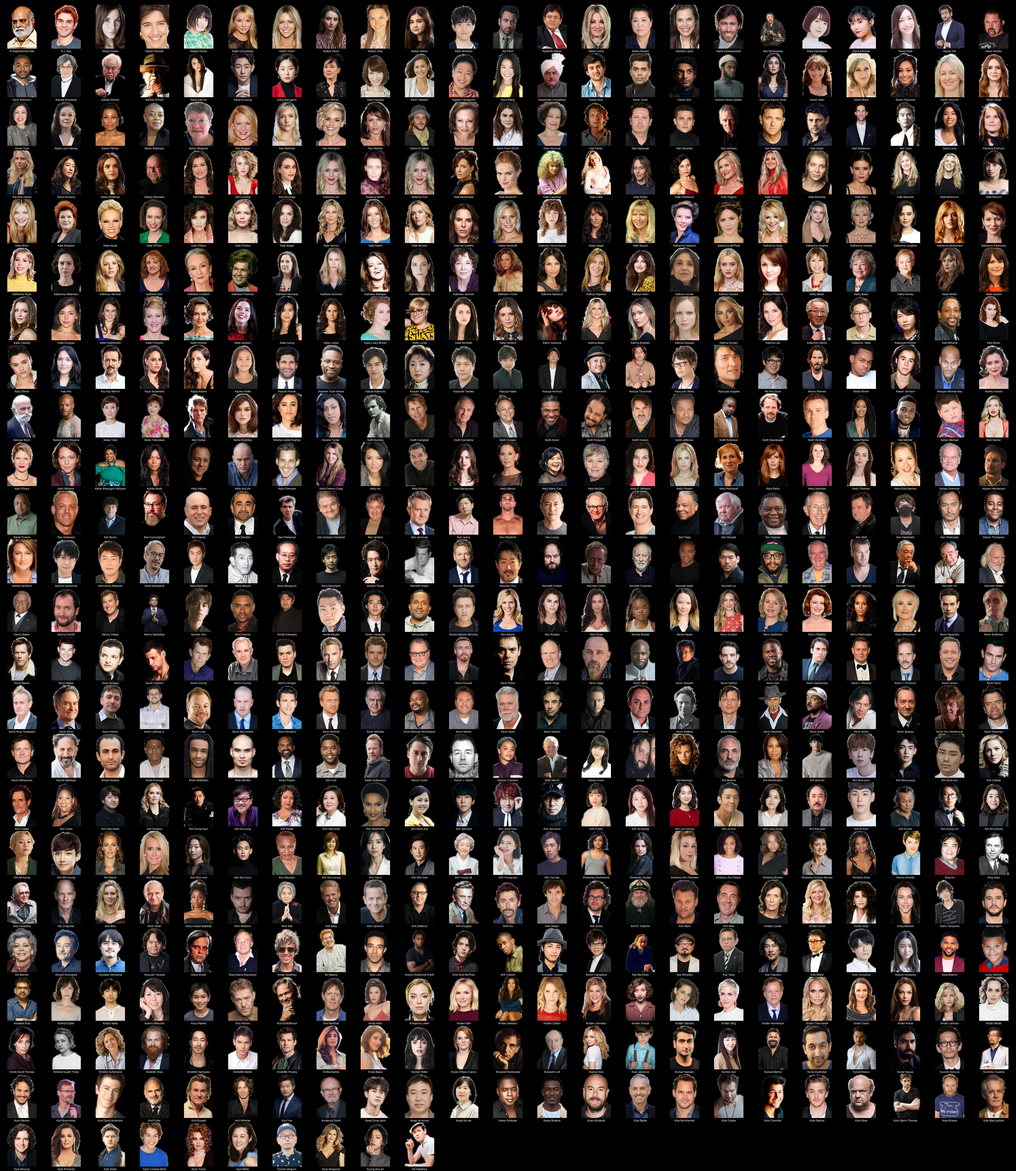
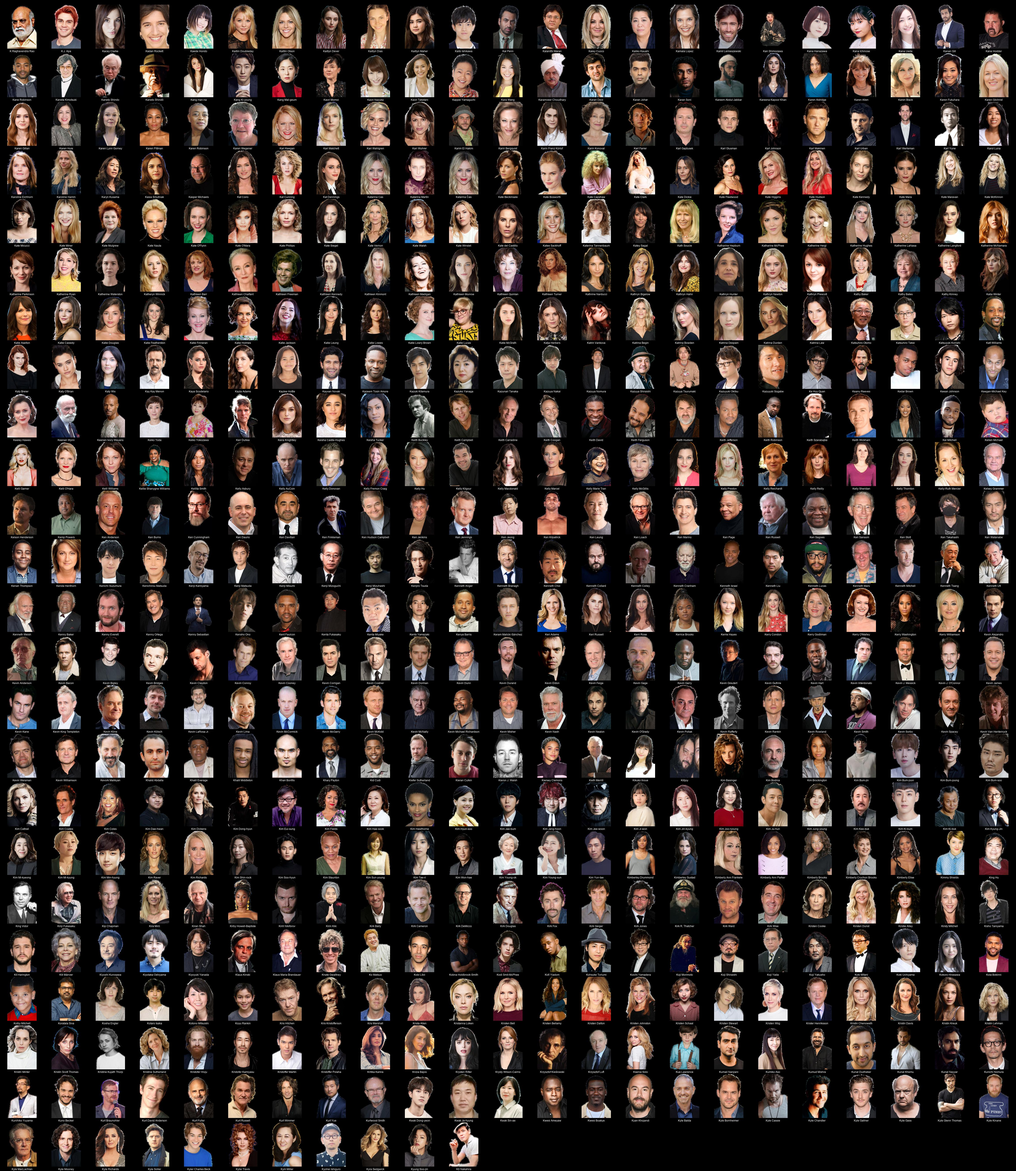
chore: sync posters & docs [transparent] — 2025-09-06 04:46

diff --git a/README.md b/README.md
@@ -1,4 +1,4 @@
-# Kometa People Images - Transparent (transparent) (11126 Images)
+# Kometa People Images - Transparent (transparent) (11127 Images)
 
 <details><summary><a href="'">' (1 Images)</a></summary>
 
@@ -5698,7 +5698,7 @@
 * [Jürgen Vogel](https://raw.githubusercontent.com/kometa-team/People-Images-transparent/master/J/Images/J%C3%BCrgen%20Vogel.png)
 * [Jūzō Itami](https://raw.githubusercontent.com/kometa-team/People-Images-transparent/master/J/Images/J%C5%ABz%C5%8D%20Itami.png)
 </details>
-<details><summary><a href="K">K (539 Images)</a></summary>
+<details><summary><a href="K">K (540 Images)</a></summary>
 
 * [K Raghavendra Rao](https://raw.githubusercontent.com/kometa-team/People-Images-transparent/master/K/Images/K%20Raghavendra%20Rao.png)
 * [K.J. Apa](https://raw.githubusercontent.com/kometa-team/People-Images-transparent/master/K/Images/K.J.%20Apa.png)
@@ -5741,6 +5741,7 @@
 * [Karan Soni](https://raw.githubusercontent.com/kometa-team/People-Images-transparent/master/K/Images/Karan%20Soni.png)
 * [Kareem Abdul-Jabbar](https://raw.githubusercontent.com/kometa-team/People-Images-transparent/master/K/Images/Kareem%20Abdul-Jabbar.png)
 * [Kareena Kapoor Khan](https://raw.githubusercontent.com/kometa-team/People-Images-transparent/master/K/Images/Kareena%20Kapoor%20Khan.png)
+* [Karen Aldridge](https://raw.githubusercontent.com/kometa-team/People-Images-transparent/master/K/Images/Karen%20Aldridge.png)
 * [Karen Allen](https://raw.githubusercontent.com/kometa-team/People-Images-transparent/master/K/Images/Karen%20Allen.png)
 * [Karen Black](https://raw.githubusercontent.com/kometa-team/People-Images-transparent/master/K/Images/Karen%20Black.png)
 * [Karen Fukuhara](https://raw.githubusercontent.com/kometa-team/People-Images-transparent/master/K/Images/Karen%20Fukuhara.png)

diff --git a/K/README.md b/K/README.md
@@ -1,4 +1,4 @@
-# Kometa People Images - Transparent (transparent) - K (539 Images)
+# Kometa People Images - Transparent (transparent) - K (540 Images)
 ![Grid](grid.jpg)
 
 * [K Raghavendra Rao](https://raw.githubusercontent.com/kometa-team/People-Images-transparent/master/K/Images/K%20Raghavendra%20Rao.png)
@@ -42,6 +42,7 @@
 * [Karan Soni](https://raw.githubusercontent.com/kometa-team/People-Images-transparent/master/K/Images/Karan%20Soni.png)
 * [Kareem Abdul-Jabbar](https://raw.githubusercontent.com/kometa-team/People-Images-transparent/master/K/Images/Kareem%20Abdul-Jabbar.png)
 * [Kareena Kapoor Khan](https://raw.githubusercontent.com/kometa-team/People-Images-transparent/master/K/Images/Kareena%20Kapoor%20Khan.png)
+* [Karen Aldridge](https://raw.githubusercontent.com/kometa-team/People-Images-transparent/master/K/Images/Karen%20Aldridge.png)
 * [Karen Allen](https://raw.githubusercontent.com/kometa-team/People-Images-transparent/master/K/Images/Karen%20Allen.png)
 * [Karen Black](https://raw.githubusercontent.com/kometa-team/People-Images-transparent/master/K/Images/Karen%20Black.png)
 * [Karen Fukuhara](https://raw.githubusercontent.com/kometa-team/People-Images-transparent/master/K/Images/Karen%20Fukuhara.png)
